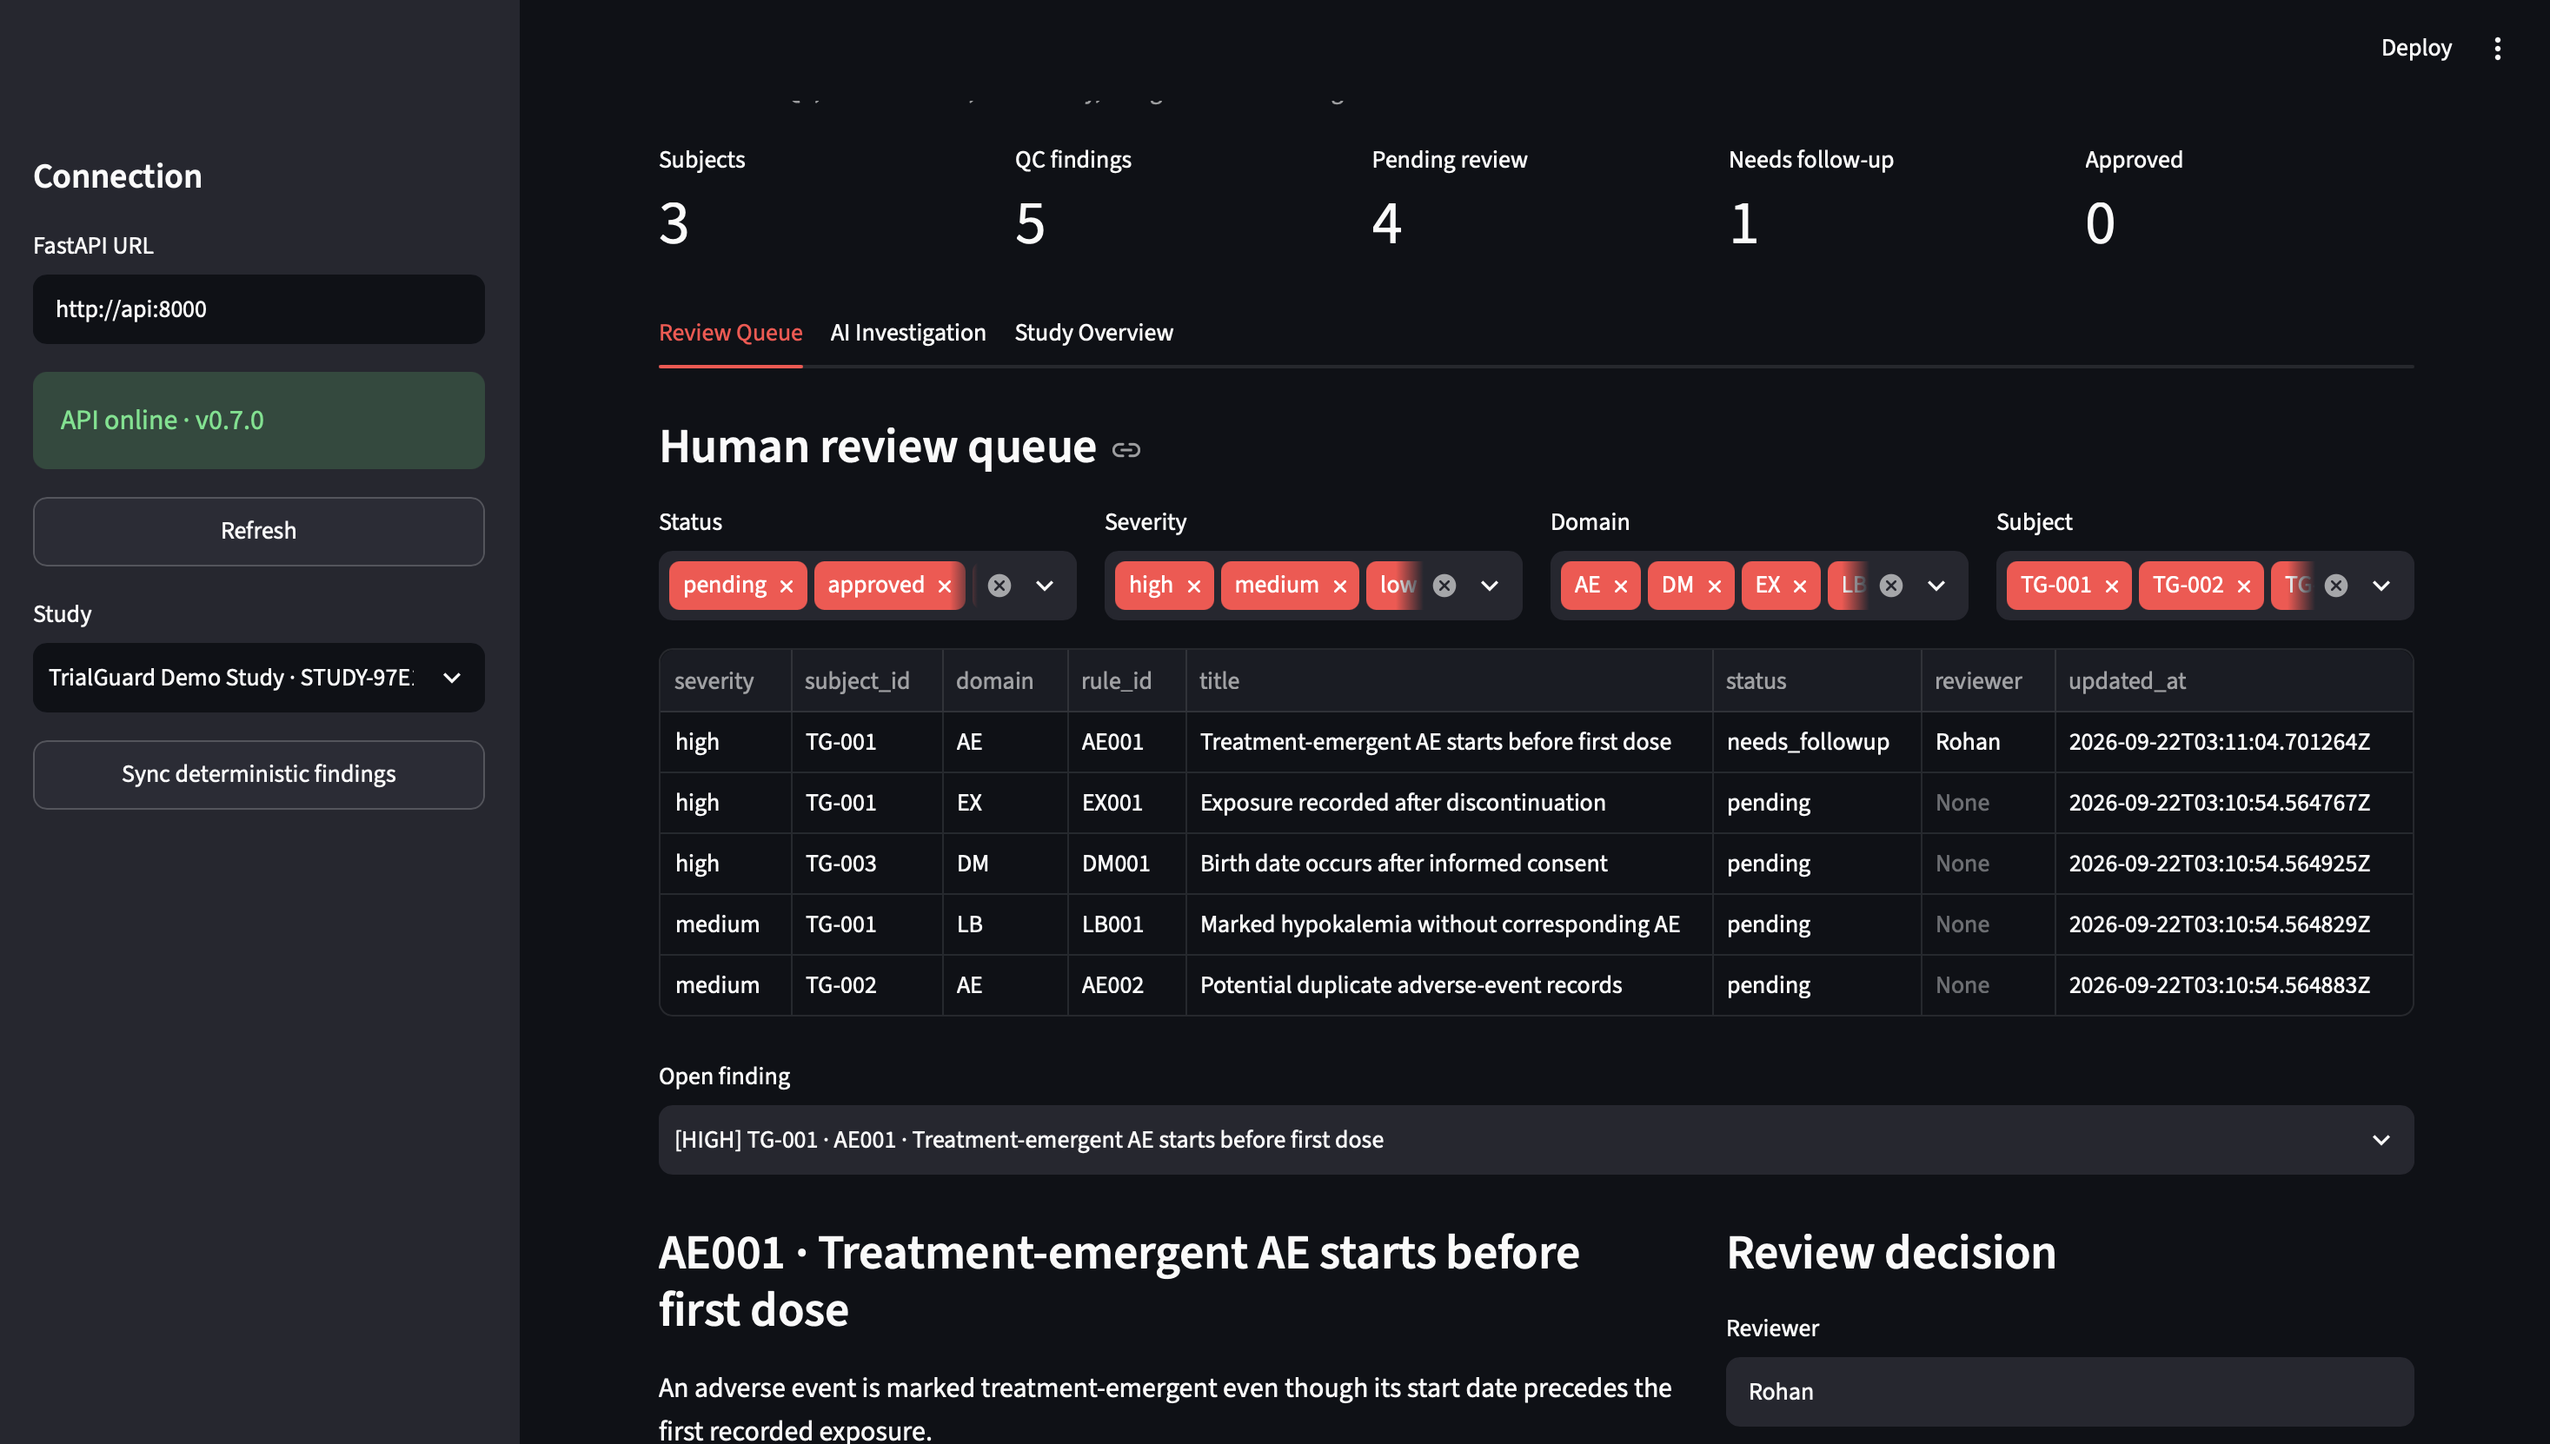
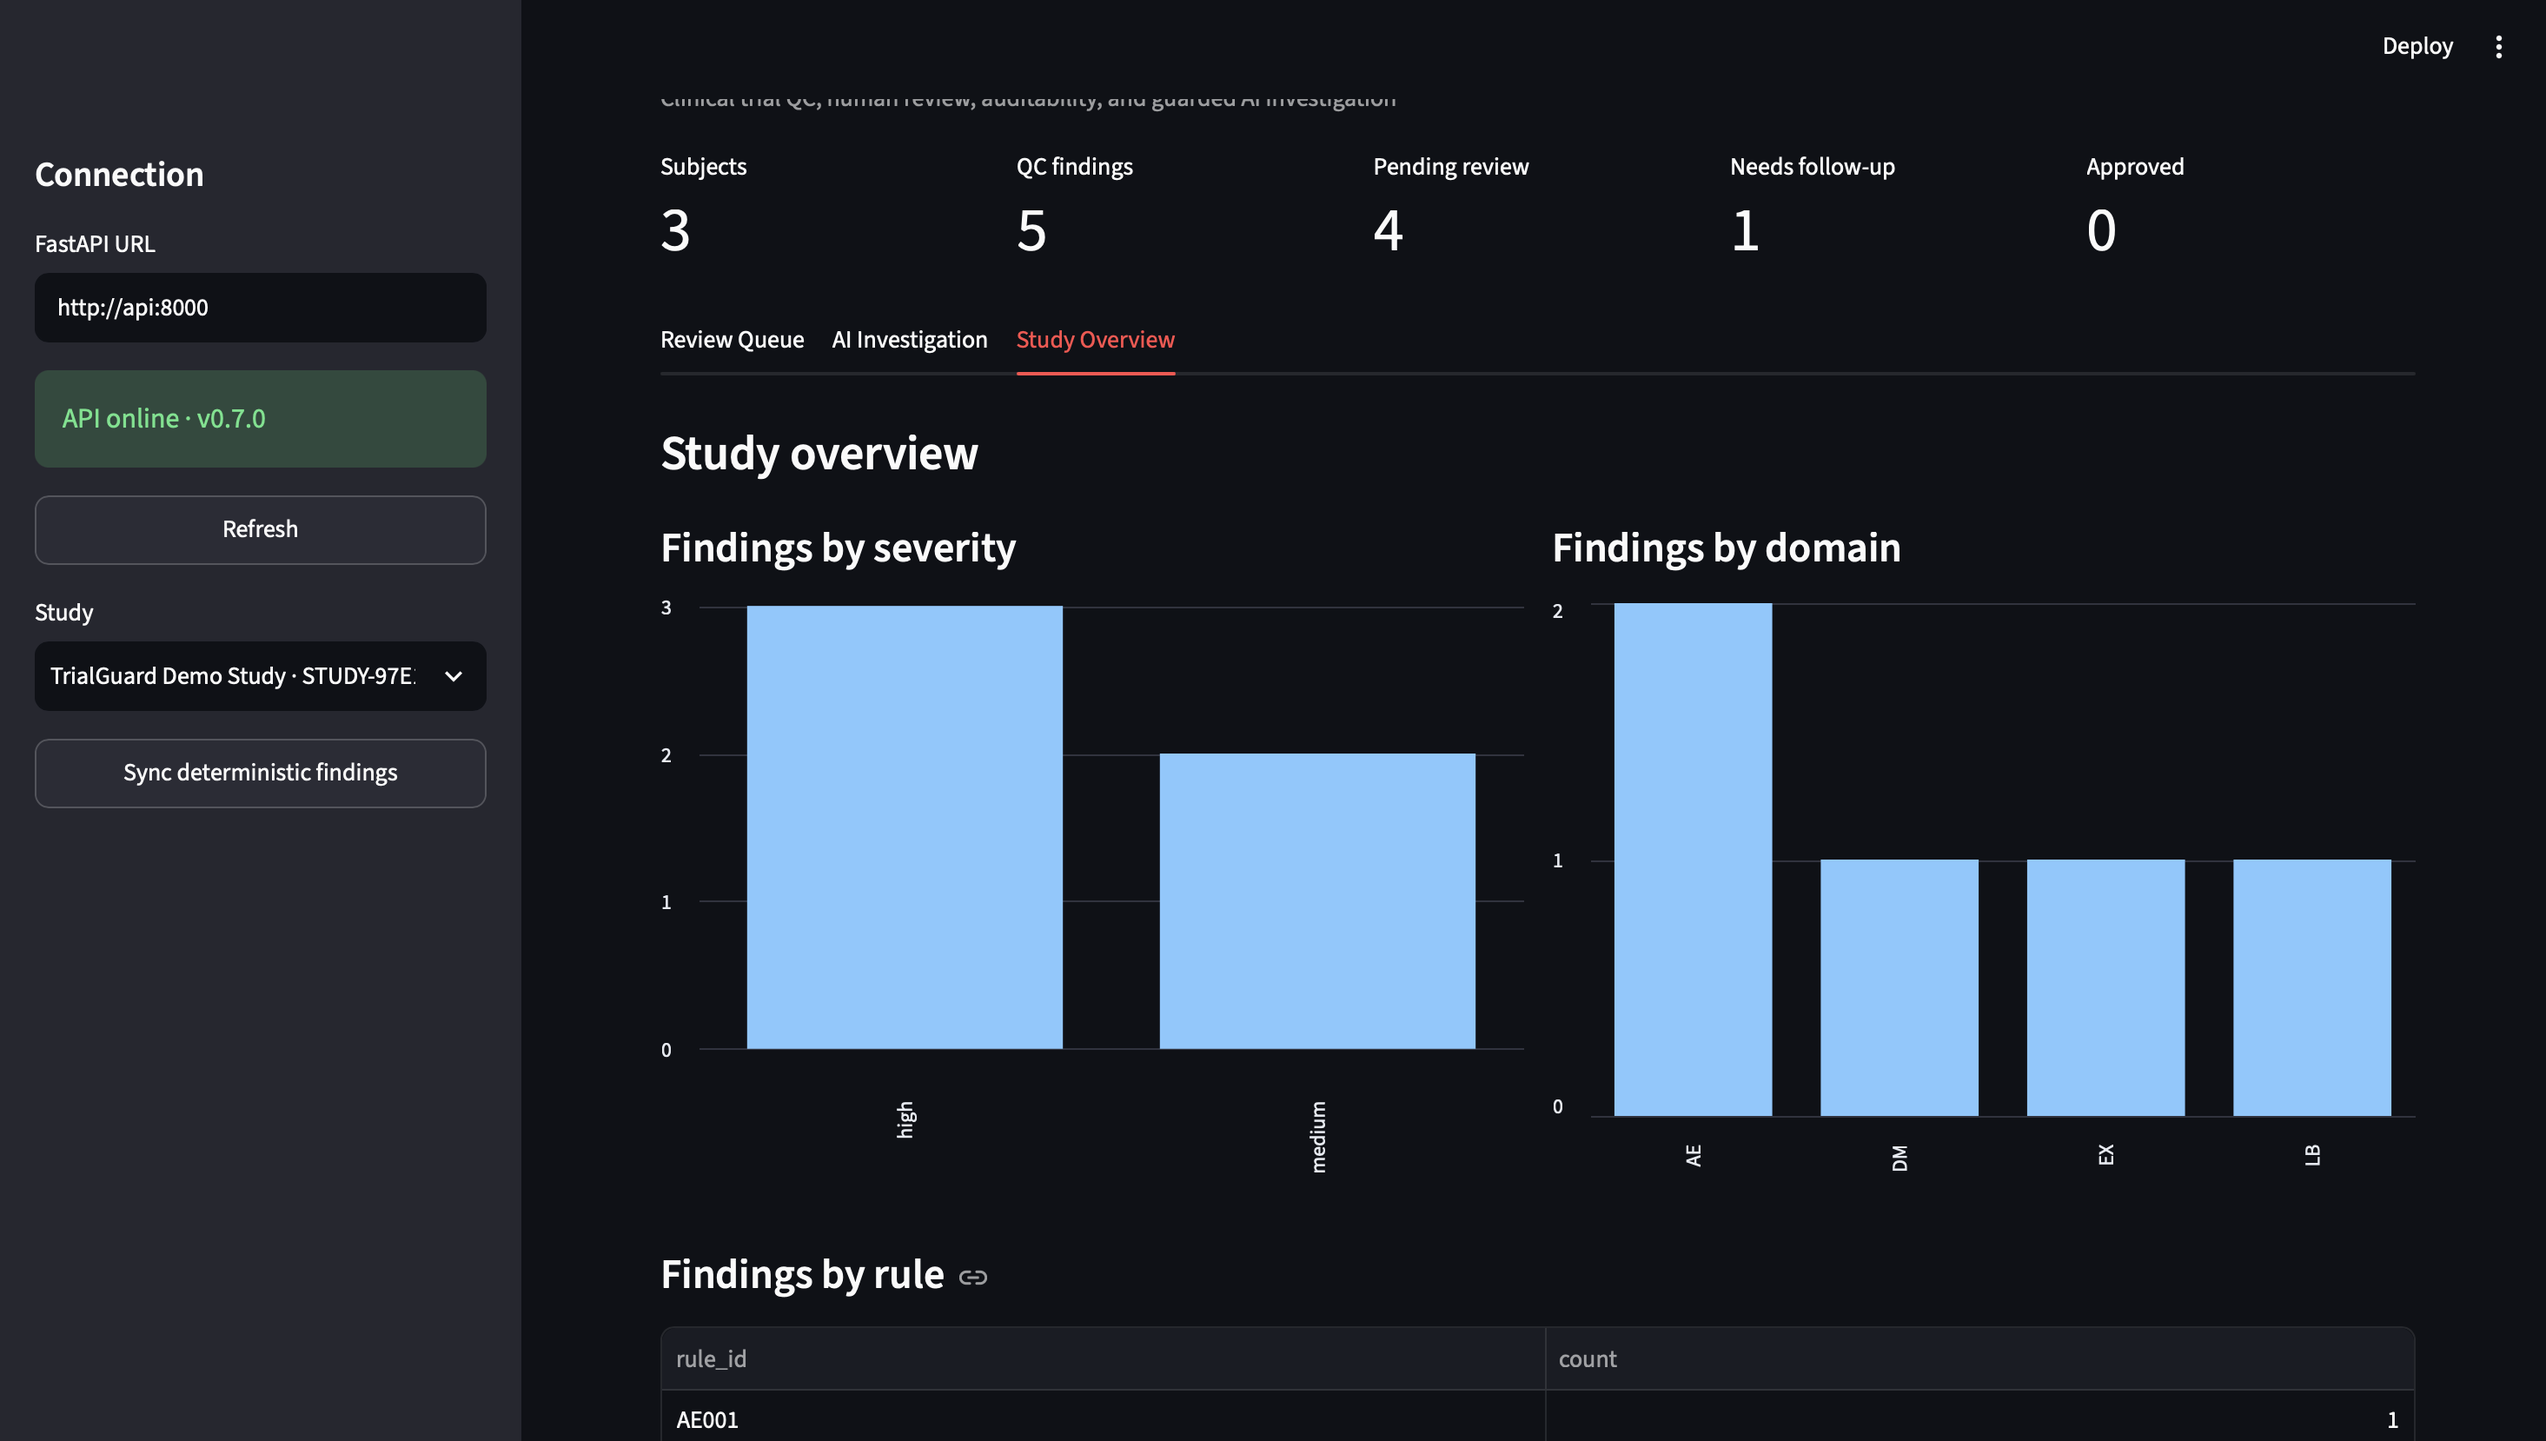
Polish README and add portfolio screenshots

diff --git a/README.md b/README.md
@@ -9,7 +9,9 @@
 
 **A guarded AI platform for clinical-trial data quality review, investigation, and human oversight.**
 
-TrialGuard AI combines deterministic clinical-data QC with a local LangGraph/Ollama investigation agent, persistent human-review workflows, append-only audit history, and a reviewer dashboard. The central design principle is simple:
+TrialGuard AI combines deterministic clinical-data QC with a local LangGraph/Ollama investigation agent, persistent human-review workflows, append-only audit history, and a reviewer dashboard.
+
+The central design principle is simple:
 
 > **The LLM does not decide whether a clinical-data anomaly exists. Deterministic QC produces the evidence; the agent selects tools and explains that evidence; a human reviewer makes the final workflow decision.**
 
@@ -19,7 +21,9 @@ The project uses synthetic/demo clinical-trial data and is intended as an engine
 
 ## Why TrialGuard?
 
-Clinical-trial data review is a good example of where an LLM should **not** be the sole source of truth. Free-form model reasoning can be useful for investigation and explanation, but reproducible data-quality checks should remain deterministic and auditable.
+Clinical-trial data review is a good example of where an LLM should **not** be the sole source of truth.
+
+Free-form model reasoning can be useful for investigation and explanation, but reproducible data-quality checks should remain deterministic and auditable.
 
 TrialGuard separates those responsibilities:
 
@@ -147,11 +151,15 @@ rejected
 needs_followup
 ```
 
-A reviewer can add notes, and every workflow transition is recorded as an audit event. Review decisions modify workflow metadata only; they do not alter the study source datasets.
+A reviewer can add notes, and every workflow transition is recorded as an audit event.
+
+Review decisions modify workflow metadata only; they do not alter the study source datasets.
 
 ### Multi-study persistence
 
-Study metadata, human-review records, and audit events are stored in SQLite. Validated clinical source snapshots are persisted under separate study directories.
+Study metadata, human-review records, and audit events are stored in SQLite.
+
+Validated clinical source snapshots are persisted under separate study directories.
 
 ```text
 .trialguard/
@@ -184,6 +192,38 @@ The Streamlit dashboard supports:
 
 ---
 
+## Product Walkthrough
+
+### Reviewer Workspace
+
+TrialGuard provides a study-scoped review queue where deterministic QC findings can be filtered, inspected, assigned to a reviewer, and moved through the human-review workflow.
+
+![TrialGuard reviewer workspace](docs/screenshots/review-queue.png)
+
+### Human Review and Audit Trail
+
+Each deterministic finding can be reviewed without modifying the underlying clinical source data.
+
+Reviewer identity, decision status, notes, and workflow transitions are persisted in the audit trail.
+
+![TrialGuard finding review and audit trail](docs/screenshots/finding-audit.png)
+
+### Guarded AI Investigation
+
+The LangGraph investigation agent answers broad or targeted questions while remaining grounded in deterministic QC tools.
+
+Broad investigations force complete QC coverage before the model summarizes the evidence.
+
+![TrialGuard guarded AI investigation](docs/screenshots/ai-investigation.png)
+
+### Study Overview
+
+Study-level summaries provide visibility into finding severity, clinical domain, and QC-rule distributions.
+
+![TrialGuard study overview](docs/screenshots/study-overview.png)
+
+---
+
 ## Synthetic Benchmark
 
 TrialGuard includes a reproducible synthetic benchmark generator with seeded ground-truth anomalies.
@@ -206,7 +246,9 @@ Result for the included 200-subject synthetic benchmark:
 | Recall | **1.000** |
 | F1 | **1.000** |
 
-**Important:** these results demonstrate that the deterministic engine correctly detects the anomaly patterns deliberately seeded into this synthetic benchmark. They are **not** an estimate of performance on real-world clinical-trial data.
+**Important:** these results demonstrate that the deterministic engine correctly detects the anomaly patterns deliberately seeded into this synthetic benchmark.
+
+They are **not** an estimate of performance on real-world clinical-trial data.
 
 ---
 
@@ -291,7 +333,9 @@ Dashboard:
 http://localhost:8501
 ```
 
-### Option 2 — Docker Compose
+---
+
+## Docker Compose
 
 Make sure Docker Desktop and Ollama are running.
 
@@ -326,13 +370,14 @@ A simple end-to-end demo:
 3. Synchronize deterministic QC findings into the review queue.
 4. Open a finding and inspect its evidence.
 5. Assign a reviewer and mark the finding `approved`, `rejected`, or `needs_followup`.
-6. Confirm the audit event was persisted.
-7. Open **AI Investigation**.
-8. Ask a broad question such as:
+6. Add a reviewer note.
+7. Confirm the audit event was persisted.
+8. Open **AI Investigation**.
+9. Ask a broad question such as:
    > Investigate this subject for possible data-quality issues.
-9. Ask a targeted question such as:
-   > Are there duplicate adverse events for this subject?
-10. Restart the application and confirm the study and review state remain available.
+10. Ask a targeted question such as:
+    > Are there duplicate adverse events for this subject?
+11. Restart the application and confirm the study and review state remain available.
 
 ---
 
@@ -416,7 +461,9 @@ SQLite stores:
 
 Study-scoped CSV snapshots are stored under the same persistent application data root.
 
-This architecture is deliberately simple for a portfolio/demo deployment. Horizontal scaling would require a shared transactional database such as PostgreSQL plus shared/object storage for clinical source snapshots.
+This architecture is deliberately simple for a portfolio/demo deployment.
+
+Horizontal scaling would require a shared transactional database such as PostgreSQL plus shared/object storage for clinical source snapshots.
 
 See [`DEPLOYMENT.md`](DEPLOYMENT.md) for operational notes.
 
@@ -456,6 +503,12 @@ trialguard-ai/
 │   ├── app.py             # Streamlit reviewer workspace
 │   ├── api_client.py
 │   └── utils.py
+├── docs/
+│   └── screenshots/
+│       ├── review-queue.png
+│       ├── finding-audit.png
+│       ├── ai-investigation.png
+│       └── study-overview.png
 ├── evals/
 │   └── evaluate_qc.py
 ├── synthetic_data/
@@ -491,15 +544,3 @@ These boundaries make the AI layer useful without making it the uncontrolled sou
 ## Author
 
 Built by [Rohan Singh](https://github.com/rohansingh72) as an applied AI / clinical-data engineering portfolio project.
-
-<!--
-## Screenshots
-
-Add these after capturing the final dashboard:
-
-![Reviewer Dashboard](docs/screenshots/reviewer-dashboard.png)
-
-![Finding Review and Audit Trail](docs/screenshots/finding-review.png)
-
-![AI Investigation](docs/screenshots/ai-investigation.png)
--->
